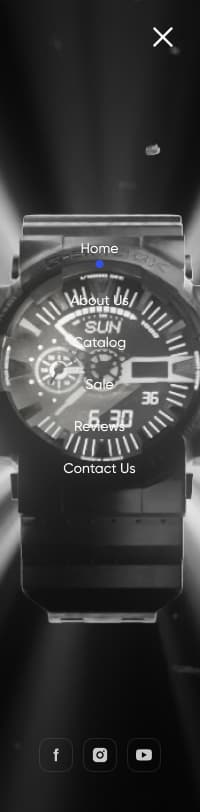
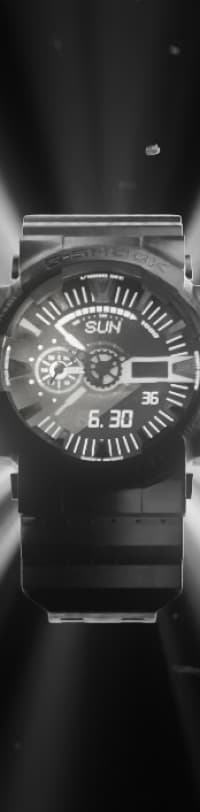
fixes

diff --git a/src/css/hero.css b/src/css/hero.css
@@ -1,7 +1,12 @@
 /* @media screen and (min-width: 375px){
 } */
-.hero-title { 
+
+.hero {
     padding-top: 60px;
+    padding-bottom: 30px;
+}
+.hero-title { 
+    /* padding-top: 60px; */
     font-family: Gilroy;
     font-size: 40px;
     font-weight: 600;
@@ -65,18 +70,25 @@
     letter-spacing: -0.02em;
     text-align: left;
     text-decoration: underline;
+    transition: color 500ms cubic-bezier(0.075, 0.82, 0.165, 1) ;
 }
-.hero-link:hover {
+.hero-link:hover,
+.hero-link:focus {
     color:#3350E9;
 }
 
 .hero-image {
     border-radius: 30px;
-    margin-bottom: 60px;
+    /* margin-bottom: 60px; */
     background-color: rgba(12, 12, 12, 0.2);
 }
 
 @media screen and (min-width: 768px) {
+    .hero {
+        padding-top: 80px;
+        padding-bottom: 40px;
+    }
+
     .hero-container {
         min-width: 768px;
         padding: 0 32px;   
@@ -91,7 +103,7 @@
         margin: 0;
     }
     .hero-title {
-        padding-top: 80px;
+        /* padding-top: 80px; */
         line-height: 60px;
         font-size: 70px;
         max-width: 557px;
@@ -138,6 +150,10 @@
 }
     
 @media screen and (min-width: 1280px) {
+    .hero {
+        padding-bottom: 50px;
+    }
+
     .hero-container {
         min-width: 1280px;
         padding: 0 65px;   
@@ -154,5 +170,21 @@
     .hero-wrap {
         width: 146px;
         height: 269px;
+    }
+}
+
+
+.hero-image {
+    opacity: 80%;
+}
+
+.overlay {
+    background: #0C0C0C;
+    border-radius: 30px;
+}
+
+@media screen and (min-width: 768px) {
+    .overlay {
+        border-radius: 50px;
     }
 }

diff --git a/src/partials/hero.html b/src/partials/hero.html
@@ -20,13 +20,15 @@
                 <a class="hero-link" href="#footer">Scroll down</a>
             </div>
         </div>
-
+        
+        <div class="overlay">
         <picture>
             <source srcset="/img/header-desk@1x.jpg 1x, /img/header-desk@2x.jpg 2x" media="(min-width: 1280px)">
             <source srcset="/img/header-tab@1x.jpg 1x, /img/header-tab@2x.jpg 2x" media="(min-width: 768px)">
             <source srcset="/img/header-mob@1x.jpg 1x, /img/header-mob@2x.jpg 2x" media="(min-width: 320px)">
             <img class="hero-image" src="/img/header-mob@1x.jpg" alt="clock">
         </picture>
+        </div>
     
     </div>
 </section>

diff --git a/src/partials/aboutus.html b/src/partials/aboutus.html
@@ -24,7 +24,7 @@
             </div>
         
         
-            <div class="picture-block-aboutus">
+            <div class="picture-block-aboutus overlay">
                 <picture class="picture-aboutus">
                     <source srcset="/img/aboutus-desk@1x.jpg 1x, /img/aboutus-desk@2x.jpg 2x" media="(min-width:1280px)">
         
@@ -34,7 +34,6 @@
         
                     <img class="img-aboutus" src="/img/aboutus-tab@1x.jpg" alt="watch">
                 </picture>
-        
             </div>
         
         </div>

diff --git a/src/partials/footer.html b/src/partials/footer.html
@@ -52,7 +52,7 @@
 
       <div class="footer-second-block">
         <ul class="footer-nav-list">
-          <li><a href="#home" class="footer-nav-link">Home</a></li>
+          <li><a href="#header" class="footer-nav-link">Home</a></li>
           <li><a href="#aboutus" class="footer-nav-link">About Us</a></li>
           <li><a href="#catalog" class="footer-nav-link">Catalog</a></li>
           <li><a href="#sale" class="footer-nav-link">Sale</a></li>

diff --git a/src/partials/contactus.html b/src/partials/contactus.html
@@ -62,7 +62,7 @@
           <button class="review-form-submit" type="submit">Send</button>
         </div>
     
-        <div class="contactus-foto">
+        <div class="contactus-foto overlay">
           <picture>
             <source media="(min-width:1280px)" srcset="/img/contactus-desk@1x.jpg 1x, /img/contactus-desk@2x.jpg 2x">
             <source media="(min-width:768px)" srcset="/img/contactus-tab@1x.jpg 1x, /img/contactus-tab@2x.jpg 2x">

diff --git a/src/css/header.css b/src/css/header.css
@@ -54,6 +54,10 @@
   top: 0;
   overflow: auto;
   z-index: 100;
+
+  opacity: 0;
+  visibility: hidden;
+  pointer-events: none;
 }
 
 .mob-menu-navigation {
@@ -350,9 +354,9 @@
 }
 
 .is-open {
-  opacity: 0;
-  visibility: hidden;
-  pointer-events: none;
+  opacity: 1;
+  visibility: visible;
+  pointer-events: auto;
   transform: translate(0);
   transition: transform .35s cubic-bezier(.4, 0, .2, 1);
 }

diff --git a/src/css/common.css b/src/css/common.css
@@ -31,3 +31,20 @@ body {
         padding: 0 65px;
     }
 }
+
+html {
+    scroll-behavior: smooth;
+}
+
+.visually-hidden {
+    position: absolute;
+    width: 1px;
+    height: 1px;
+    margin: -1px;
+    border: 0;
+    padding: 0;
+    white-space: nowrap;
+    clip-path: inset(100%);
+    clip: rect(0 0 0 0);
+    overflow: hidden;
+}

diff --git a/src/css/contactus.css b/src/css/contactus.css
@@ -191,3 +191,20 @@
         border-radius: 50px;
     }
 }
+
+
+
+.contactus-img {
+    opacity: 80%;
+}
+
+.overlay {
+    background: #0C0C0C;
+    border-radius: 30px;
+}
+
+@media screen and (min-width: 768px) {
+    .overlay {
+        border-radius: 50px;
+    }
+}

diff --git a/src/css/aboutus.css b/src/css/aboutus.css
@@ -145,3 +145,19 @@
     }
 
 }
+
+
+.img-aboutus {
+    opacity: 80%;
+}
+
+.overlay {
+    background: #0C0C0C;
+    border-radius: 30px;
+}
+
+@media screen and (min-width: 768px) {
+    .overlay {
+        border-radius: 50px;
+    }
+}
